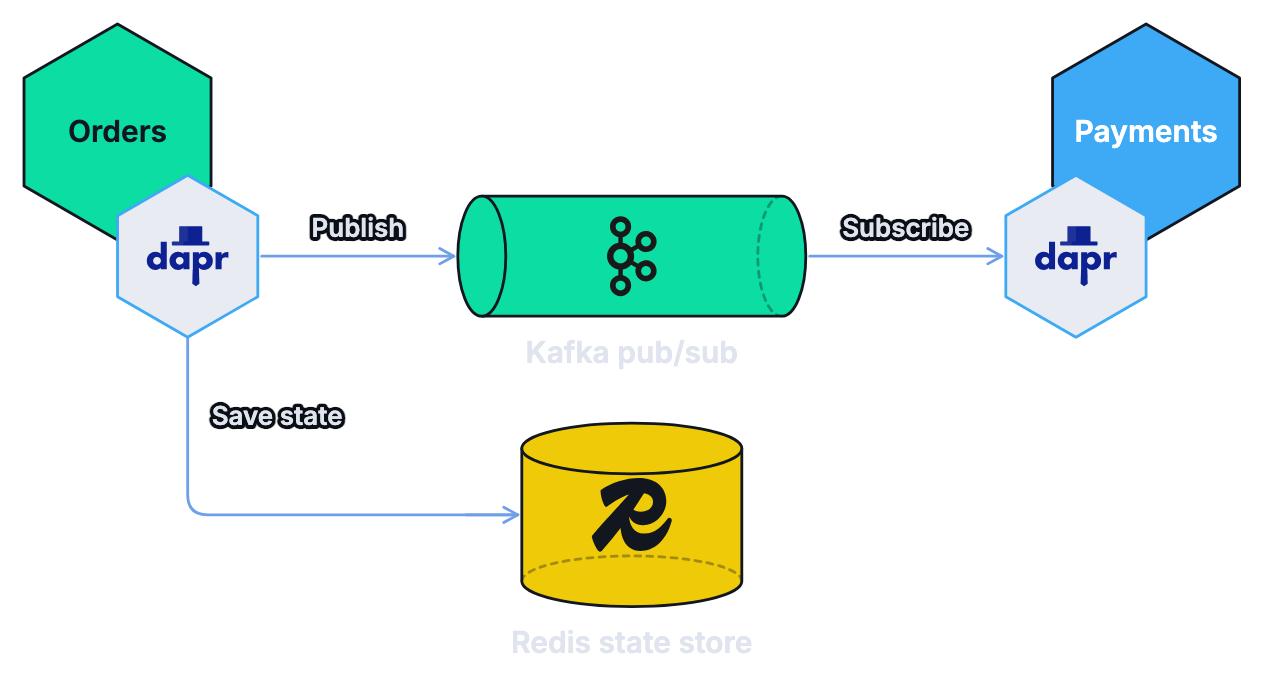
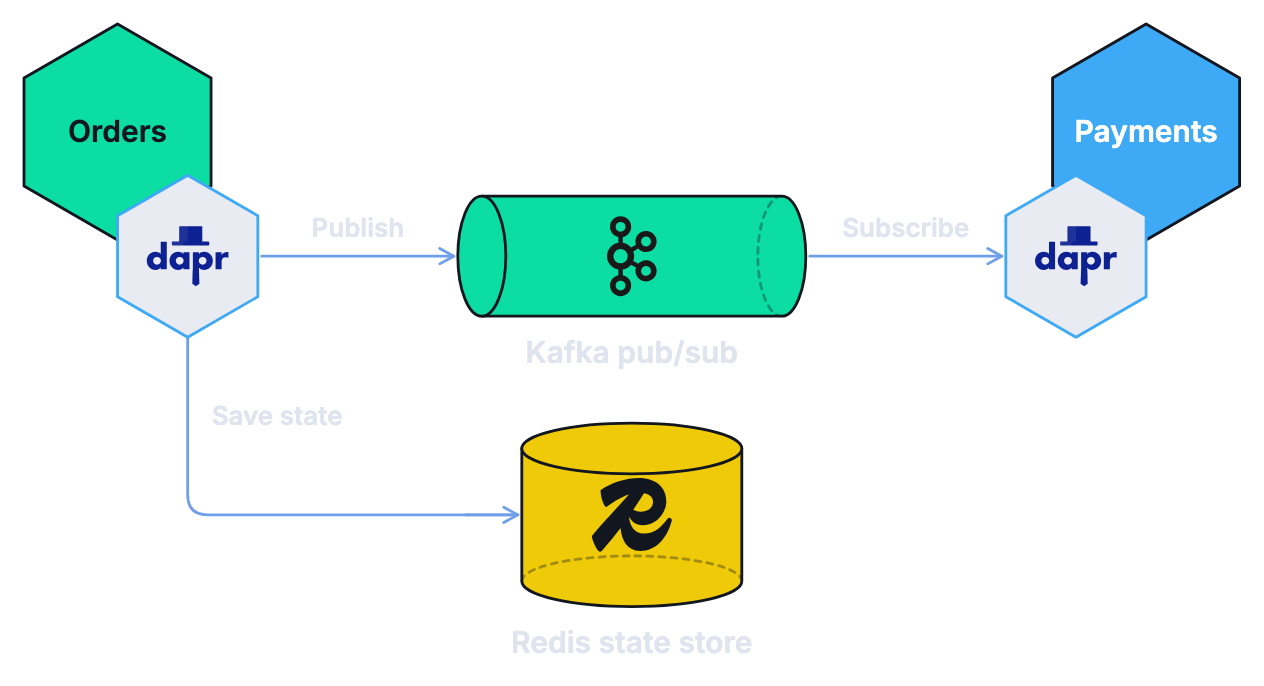
Remove the halo outline from diagram labels
label() drew a copy of the text underneath with a stroke in the page
colour. On the light PNG that showed as a white outline round the dark
arrow labels, while names under shapes had none. label() and note() now
draw one text with no outline, and the halo option is gone. The design
rule is now that text sits beside a line, never on it.

Bumps the plugin to 1.32.1 so setup refreshes engines already copied
into projects.

Changed region(s): [[0.6479, 0.3061, 0.7714, 0.3673], [0.1543, 0.5816, 0.2777, 0.6429], [0.2468, 0.3061, 0.3394, 0.3673]]

diff --git a/AGENTS.md b/AGENTS.md
@@ -193,7 +193,7 @@ The engine in `skills/create-diagram/engine/` comes from the newest dapr/docs re
 
 1. Copy the kept modules from that branch: `engine`, `shapes`, `icons`, `apis`, `app`, `services`, `brands`, `cards`, `flow`, `export`, `measure-bbox`, `measure-ink` and `render-png`. Merge, do not overwrite: `browser.mjs`, `font-guard.mjs`, `hash.mjs`, `measure-labels.mjs` and `paths.mjs` are local additions, and `export.mjs` and `render-png.mjs` carry local changes.
 2. Regenerate the colour tokens: `node scripts/diagram-tokens.mjs <path to _tokens.scss>`.
-3. Re-apply the local changes: the Java mark is removed, the Python mark is the CC0 Simple Icons mark with `--d-brand-python` (`C` gets a `pythonBrand: 'var(--d-brand-python)'` entry after `redisBrand`, and `brands.mjs` tints the mark with `C.pythonBrand`), the export writes one themed SVG, paths resolve from the project, and Chromium loads through `browser.mjs`. `export.mjs` flags scenes changed since the last Chromium export (`staleWithoutBrowser`, using `hash.mjs`) and prints the font-check and fonts-missing lines through `fallbackFontReport`; `render-png.mjs` imports `sha256` from `hash.mjs`; `font-guard.mjs` has `probePins` and `fallbackFontReport`.
+3. Re-apply the local changes: the Java mark is removed, the Python mark is the CC0 Simple Icons mark with `--d-brand-python` (`C` gets a `pythonBrand: 'var(--d-brand-python)'` entry after `redisBrand`, and `brands.mjs` tints the mark with `C.pythonBrand`), `label()` and `note()` have no `halo` option (no stroked copy under the text), the export writes one themed SVG, paths resolve from the project, and Chromium loads through `browser.mjs`. `export.mjs` flags scenes changed since the last Chromium export (`staleWithoutBrowser`, using `hash.mjs`) and prints the font-check and fonts-missing lines through `fallbackFontReport`; `render-png.mjs` imports `sha256` from `hash.mjs`; `font-guard.mjs` has `probePins` and `fallbackFontReport`.
 4. Set `skill` in `engine/VERSION` to the current plugin version (`setup.mjs` compares it) and update `source` there and in `engine/NOTICE` with the branch and commit.
 5. Run `node --test "scripts/test/*.test.mjs"` and `node scripts/validate-skills.mjs`.
 

diff --git a/skills/create-diagram/REFERENCE.md b/skills/create-diagram/REFERENCE.md
@@ -202,10 +202,9 @@ the colour scheme.
 - **Never below `MIN_LABEL`, 10 units.** `label()` throws below it, and
   `cardSizes()`, `serviceLabel()` and `cylinder()` refuse a shape too small for
   a legible name rather than shrinking the name. The fix is a bigger shape.
-- **Text over any line gets `halo: true`**: an arrow, a bus or a dashed region
-  border. The halo paints the page's ground behind the glyphs so the line
-  stops at the word. It is invisible where nothing crosses, so it costs
-  nothing.
+- **Text never sits on a line**: an arrow, a bus or a dashed region border.
+  Place a line's label beside the line with clearance, the same way a name
+  sits under its shape. Labels have no outline.
 - **A label sits under the thing it names, centred on it.** A line's label
   may sit above the line instead. Either way it is centred on the span: pass
   the midpoint of the run, not one end plus a guess.
@@ -227,7 +226,7 @@ the colour scheme.
   yours. Measure its width and derive its x from the run it rides on.
 - **A word above a shape clears the arrowhead, not the shape.** A head is
   drawn back from its tip along the line, so a word placed above the end of a
-  vertical run sits on the head and its halo hides the direction. Where a word
+  vertical run sits on the head and hides the direction. Where a word
   sits over the end of a run, give it its own constant (about 24 units above)
   and say why in a comment.
 - **A label beside a vertical run is anchored `start` on the right** (`end` on
@@ -635,7 +634,7 @@ Kafka, with Orders also saving state to Redis.
   fork on a bus.
 - **One app, so the broker is sky, not green.** The Redis mark takes `C.appInk`
   on the solid gold store; the 140 by 60 pipe is inside `pipe()`'s 2 to 3.
-- **Names sit outside their shapes; labels on runs have halos.** The canvas is
+- **Names sit outside their shapes; labels sit beside their runs.** The canvas is
   16:9 and centred by construction, so it looks the same without Chromium.
 
 ### Key points: orders-payments.mjs

diff --git a/skills/create-diagram/API.md b/skills/create-diagram/API.md
@@ -25,7 +25,7 @@ Coordinates are in the scene's canvas.
 | --- | --- | --- |
 | `group(children)` | an array, or `{ children, ...attrs }` | A `<g>` |
 | `slots(x0, x1, n)` | | `n` evenly spaced centres across the span (numbers) |
-| `label(o)` | `x, y, text, size` (11), `weight` (600), `color` (`C.body`), `halo`, `anchor` (`'middle'`), `mono` | Text; `\n` starts a line; `y` is the block's vertical centre |
+| `label(o)` | `x, y, text, size` (11), `weight` (600), `color` (`C.body`), `anchor` (`'middle'`), `mono` | Text; `\n` starts a line; `y` is the block's vertical centre |
 | `richLabel(o)` | `x, y, parts, size` (13), `weight` (400), `color`, `anchor` (`'start'`), `mono` | One line whose `parts` (`{ text, color, weight, mono }`) differ in colour or weight |
 | `hex(o)` | `x, y, r` (42.5), `stroke, fill, ink, solid, label` (`'App'`), `size` (r/3), `labelDx, labelDy, sub, subSize` | A pointy-top app hexagon with its name; `sub` is a code line under the name |
 | `hexPoints(x, y, r)` | | The six points as a `points` string |
@@ -129,4 +129,4 @@ Keys: `workflows`, `pubsub`, `service-invocation`, `state`, `actors`, `jobs`,
 | --- | --- |
 | `FLOW` | `W` 172, `H` 46, `SIZE` 13, `CAPTION_SIZE` 13, `NOTE_SIZE` 12, `PAD`, `LANE_TERMINAL_H`, `LANE_ACTIVITY_H`, `GAP_X` 58, `GAP_Y` 28, `NODE_R` 30, and the styles `start`, `end`, `step`, `wait` to spread into `node()` or `box()` |
 | `flowLane(o)` | `x, y, w, h, caption, captionW, captionX`: a lane, a `region()` with the flow caption size |
-| `note(o)` | `x, y, text, anchor, halo`: a remark on the flow |
+| `note(o)` | `x, y, text, anchor`: a remark on the flow |
